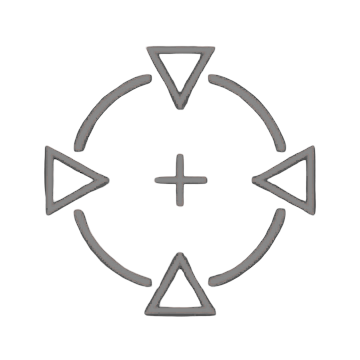
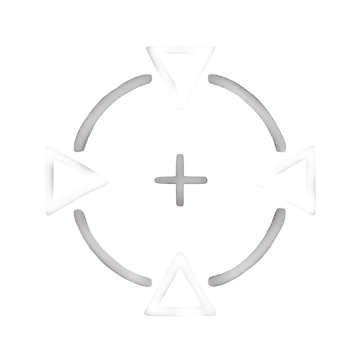
Добавил графику турели и шкалу наклона в правый нижний угол, уменьшил CPU цикла ROS (spin_some с таймаутом)

Changed region(s): [[0.1222, 0.1222, 0.8861, 0.8861], [0.4278, 0.4278, 0.5806, 0.5806]]

diff --git a/qml/turretwidget.qml b/qml/turretwidget.qml
@@ -112,8 +112,8 @@ Item {
                 }
 
                 AppBtn {
-                    id: centerBtn
-                    text: "Центрирование"
+                    id: calibrateBtn
+                    text: "Калибровка"
                     font.pixelSize: 13
                     Layout.preferredWidth: 150
                     Layout.minimumWidth: 150
@@ -221,6 +221,62 @@ Item {
         height: 100
         accentColor: combatToggle.checked ? "red" : SpaceMill.spaceSuccess
         z: 1000
+    }
+
+    Item {
+        id: turretGroup
+        anchors.right: parent.right
+        anchors.rightMargin: 8
+        anchors.bottom: parent.bottom
+        anchors.bottomMargin: 0
+        width: 180
+        height: 162
+
+        Image {
+            anchors.fill: parent
+            source: "qrc:/images/turret_no_bg_base.png"
+            fillMode: Image.PreserveAspectCrop
+            transform: Rotation {
+                origin.x: turretGroup.width / 2
+                origin.y: turretGroup.height / 2
+                angle: -90
+            }
+        }
+
+        Image {
+            anchors.fill: parent
+            source: "qrc:/images/turret_no_bg_gun_kontur.png"
+            fillMode: Image.PreserveAspectCrop
+            x: -5
+            transform: Rotation {
+                origin.x: turretGroup.width / 2
+                origin.y: turretGroup.height / 2
+                angle: -270
+            }
+        }
+    }
+
+    Item {
+        id: angleGroup
+        anchors.right: turretGroup.left
+        anchors.rightMargin: 8
+        anchors.bottom: parent.bottom
+        anchors.bottomMargin: 0
+        width: 170
+        height: 162
+
+        Image {
+            anchors.fill: parent
+            source: "qrc:/images/turret_no_bg_angle_plate.png"
+            fillMode: Image.PreserveAspectCrop
+        }
+
+        Image {
+            id: angleGunImage
+            anchors.fill: parent
+            source: "qrc:/images/turret_no_bg_angle_gun.png"
+            fillMode: Image.PreserveAspectCrop
+        }
     }
 
     Shortcut {

diff --git a/src/ros/RosHandler.cpp b/src/ros/RosHandler.cpp
@@ -1,5 +1,7 @@
 #include "RosHandler.h"
 
+#include <chrono>
+
 #include "constants.h"
 
 RosHandler::~RosHandler()
@@ -29,7 +31,10 @@ void RosHandler::init() {
         });
 }
 
-void RosHandler::run() { m_executor->spin_some(); }
+void RosHandler::run()
+{
+    m_executor->spin_some(std::chrono::milliseconds(10));
+}
 
 void RosHandler::stop()
 {
